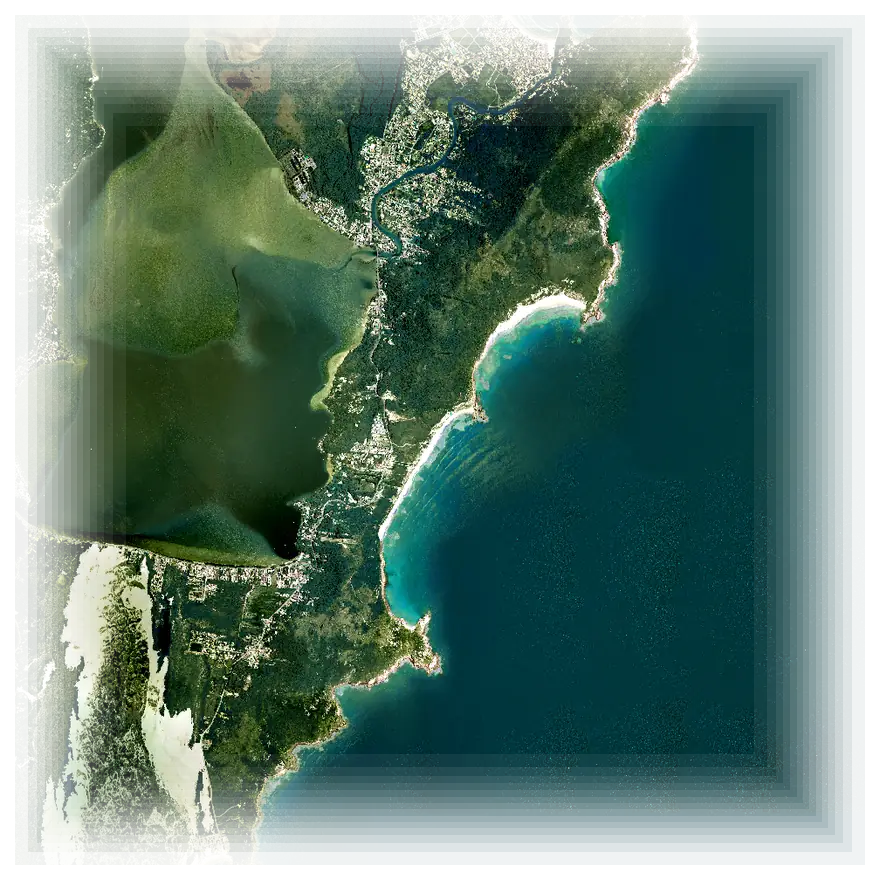
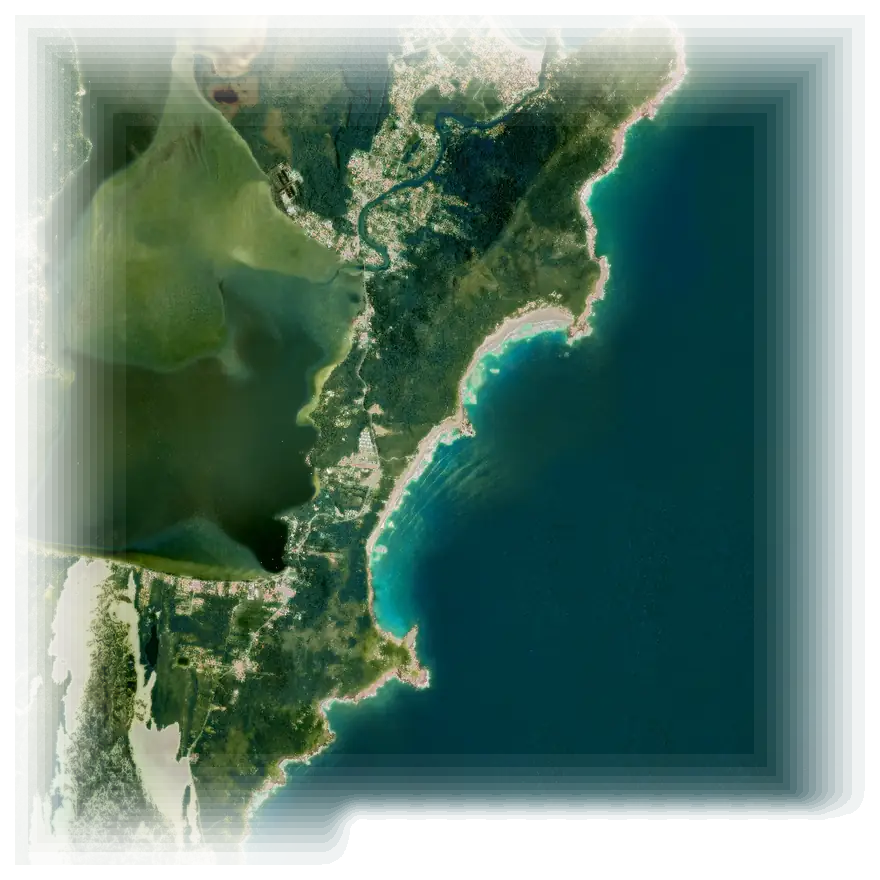
fix(landing): foto da Mole no tamanho e giro reais, abertura nítida na beira da praia
A foto do topo estava com 70% do tamanho real e girada 22° pro lado errado em cima da aerofoto,
por isso parecia uma "janela" colada quando se rolava devagar. Encaixe medido de novo comparando
vegetação e areia da foto com a aerofoto do Estado (largura 3,1 un, giro +11°, centro ~140 m a
nordeste); as camadas da aerofoto e do satélite foram refeitas em volta do centro novo.

- Abertura: foto em 2400 px (antes 2000), menos ampliada e centrada na areia com gente e nas
  ondas, não no meio da foto (que era só mar)
- Na subida a foto passa pra uma cópia com as cores da aerofoto (photo-tone): quando a borda
  aparece, cor e desenho continuam dos dois lados
- Aerofoto: áreas sem voo em 2012 (branco puro no mar) somem em vez de virar linha clara; areia
  segurada no bege em vez de estourar no branco
- Peso total das imagens do topo: +66 KB

diff --git a/src/components/landing/Hero.tsx b/src/components/landing/Hero.tsx
@@ -1,6 +1,7 @@
 import { useEffect, useLayoutEffect, useRef, useState, type ReactNode } from 'react'
 import { ChevronDown } from 'lucide-react'
 import photoMole from '@/assets/landing/flyover/photo-mole.webp'
+import photoTone from '@/assets/landing/flyover/photo-tone.webp'
 import orthoXfine from '@/assets/landing/flyover/ortho-xfine.webp'
 import orthoFine from '@/assets/landing/flyover/ortho-fine.webp'
 import orthoMid from '@/assets/landing/flyover/ortho-mid.webp'
@@ -26,10 +27,12 @@ import { IslandBeachList, IslandSummary } from '@/components/landing/IslandBeach
 // vídeo sem redesenhar.
 //
 // Camadas (unidades do desenho da ilha, islandShape.ts, ~91 m cada; geradas por
-// .content-drafts/flyover/build.py, fora do git):
-// - foto: Tiago Muraro (Unsplash License), Praia Mole, encaixada na aerofoto (giro de 11°)
+// .content-drafts/flyover/build2.py, fora do git):
+// - foto: Tiago Muraro (Unsplash License), Praia Mole, no tamanho e giro reais medidos contra a
+//   aerofoto (register3.py: dunas, areia e mar continuam de um lado pro outro da emenda)
 // - aerofoto: Governo de SC, SIGSC OrtoRGB 2012 (WMS público, sem taxa/restrição), cor convertida
-//   pra do satélite; 4 níveis (0,4 km na resolução máxima de 0,39 m, 0,7 / 2,2 / 6,5 km)
+//   pra do satélite com a areia segurada no bege; 4 níveis (0,55 / 0,7 / 2,2 / 6,5 km); pra emenda
+//   não aparecer, a foto ganha uma cópia com essas cores (photo-tone, ver toneMix)
 // - satélite: Copernicus Sentinel-2 (ESA), 21/ago/2026; detalhe perto da Mole + base da ilha
 
 const NAV = 60 // menu fixo da landing, por cima do palco
@@ -45,16 +48,22 @@ const BASE: Record<'tall' | 'wide', Layer> = {
 // De baixo pra cima, cada vez mais perto da Mole. Somem quando ficam pequenas na tela (a aerofoto
 // é de 2012 e não pode aparecer como remendo no mapa final, que é só satélite)
 const DETAILS: Layer[] = [
-  { src: s2Detail, x: 92.55, y: 149.05, w: 140, h: 270, px: 700, feather: 0.14, fadeSmall: true },
-  { src: orthoCoarse, x: 126.55, y: 233.05, w: 72, h: 72, px: 880, feather: 0.16, fadeSmall: true },
-  { src: orthoMid, x: 150.55, y: 257.05, w: 24, h: 24, px: 960, feather: 0.16, fadeSmall: true },
-  { src: orthoFine, x: 158.55, y: 265.05, w: 8, h: 8, px: 900, feather: 0.16, fadeSmall: true },
-  { src: orthoXfine, x: 160.25, y: 266.75, w: 4.6, h: 4.6, px: 1076, feather: 0.2, fadeSmall: true },
+  { src: s2Detail, x: 93.6, y: 147.91, w: 140, h: 270, px: 700, feather: 0.14, fadeSmall: true },
+  { src: orthoCoarse, x: 127.6, y: 231.91, w: 72, h: 72, px: 880, feather: 0.16, fadeSmall: true },
+  { src: orthoMid, x: 151.6, y: 255.91, w: 24, h: 24, px: 960, feather: 0.16, fadeSmall: true },
+  { src: orthoFine, x: 159.6, y: 263.91, w: 8, h: 8, px: 900, feather: 0.16, fadeSmall: true },
+  { src: orthoXfine, x: 160.6, y: 264.91, w: 6, h: 6, px: 1200, feather: 0.2, fadeSmall: true },
 ]
-// A foto (2000x1333), que é também o ponto em volta do qual a câmera sobe. De verdade ela cobre
-// ~1,3 unidade; aqui fica um pouco maior (2,2) pra diminuir o salto de nitidez pra aerofoto
-const PHOTO = { src: photoMole, cx: 162.55, cy: 269.05, w: 2.2, h: 2.2 / 1.5, rot: -11, feather: 0.17 }
-const PHOTO_LAYER: Layer = { src: photoMole, x: PHOTO.cx - PHOTO.w / 2, y: PHOTO.cy - PHOTO.h / 2, w: PHOTO.w, h: PHOTO.h, px: 2000, feather: PHOTO.feather }
+// A foto (2400x1600), que é também o ponto em volta do qual a câmera sobe. Tamanho, giro e
+// centro são os reais (cobre ~280 m de praia); feather = borda esfumada embutida na imagem
+const PHOTO = { src: photoMole, cx: 163.6, cy: 267.91, w: 3.1, h: 3.1 / 1.5, rot: 11, feather: 0.08 }
+const PHOTO_LAYER: Layer = { src: photoMole, x: PHOTO.cx - PHOTO.w / 2, y: PHOTO.cy - PHOTO.h / 2, w: PHOTO.w, h: PHOTO.h, px: 2400, feather: PHOTO.feather }
+// Abertura centrada na beira (areia com gente + ondas), não no meio da foto, que é só mar. Em
+// fração da largura da foto, pra esquerda; em tela larga não sobra espaço e fica no centro
+const START_DU = -0.16 * PHOTO.w
+// Nos primeiros passos da subida a foto troca pra uma cópia com as cores da aerofoto (mais clara,
+// como o ar visto de mais alto): quando a borda aparece, as cores dos dois lados já são iguais
+const toneMix = (L: Layout, s: number) => smooth(seg(L.s0 / s, 1.02, 1.6))
 
 const clamp01 = (v: number) => Math.min(1, Math.max(0, v))
 const seg = (p: number, a: number, b: number) => clamp01((p - a) / (b - a))
@@ -63,7 +72,7 @@ const smooth = (t: number) => t * t * (3 - 2 * t)
 // aerofoto em volta) e pousa devagar no mapa
 const cameraEase = (t: number) => 0.65 * Math.sin((Math.PI * t) / 2) + 0.35 * (-(Math.cos(Math.PI * t) - 1) / 2)
 
-type Layout = { W: number; H: number; k: number; ox: number; oy: number; wide: boolean; s0: number }
+type Layout = { W: number; H: number; k: number; ox: number; oy: number; wide: boolean; s0: number; du: number }
 
 // Câmera no progresso p: escala s (1 = mapa final), giro e onde o centro da foto cai na tela
 function camera(L: Layout, p: number) {
@@ -73,13 +82,16 @@ function camera(L: Layout, p: number) {
   const x = L.W / 2 + (L.ox + PHOTO.cx * L.k - L.W / 2) * w
   const y = L.H / 2 + (L.oy + PHOTO.cy * L.k - L.H / 2) * w
   const theta = -PHOTO.rot * (1 - smooth(seg(z, 0.12, 0.65))) // começa com a foto reta, termina com o norte pra cima
-  return { s, x, y, theta }
+  // desloca o começo pra beira da praia e volta pro centro da foto nos primeiros passos da subida
+  const off = L.du * (1 - smooth(seg(z, 0, 0.3))) * L.k * s
+  const a = ((theta + PHOTO.rot) * Math.PI) / 180
+  return { s, x: x - off * Math.cos(a), y: y - off * Math.sin(a), theta, off: Math.abs(off) }
 }
 
 // Base de cada <img>: a caixa no CSS já tem ~ o tamanho da imagem, e a animação só escala
 const baseScale = (l: Layer, k: number) => Math.max(1, l.px / (2 * l.w * k))
 
-function layerFrames(L: Layout, layers: { l: Layer; photo?: boolean }[], samples = 64) {
+function layerFrames(L: Layout, layers: { l: Layer; photo?: boolean; tone?: boolean }[], samples = 64) {
   const frames = layers.map(() => [] as Keyframe[])
   const view = Math.max(L.W, L.H)
   for (let i = 0; i <= samples; i++) {
@@ -88,13 +100,18 @@ function layerFrames(L: Layout, layers: { l: Layer; photo?: boolean }[], samples
     // de cima pra baixo: uma camada opaca que já cobre a tela inteira esconde as de baixo
     let covered = false
     for (let j = layers.length - 1; j >= 0; j--) {
-      const { l, photo } = layers[j]
+      const { l, photo, tone } = layers[j]
       const f = l.feather * Math.min(l.w, l.h)
       let op = 1
-      if (photo) op = smooth(seg(l.w * L.k * c.s, 0.35 * L.W, 1.1 * L.W))
+      if (photo) {
+        op = smooth(seg(l.w * L.k * c.s, 0.35 * L.W, 1.1 * L.W))
+        // a cópia de cor entra por cima; a foto original só sai quando ela já cobre quase tudo
+        const m = toneMix(L, c.s)
+        op *= tone ? m : 1 - smooth(seg(m, 0.85, 1))
+      }
       else if (l.fadeSmall) op = smooth(seg(l.w * L.k * c.s, 90, 190))
       if (covered) op = 0
-      if (op >= 1 && Math.min(l.w - 2 * f, l.h - 2 * f) * L.k * c.s >= view * (photo ? 1.02 : 1.3)) covered = true
+      if (op >= 1 && Math.min(l.w - 2 * f, l.h - 2 * f) * L.k * c.s >= view * (photo ? 1.02 : 1.3) + 2 * c.off) covered = true
       const b = photo ? L.s0 : baseScale(l, L.k)
       const inner = photo
         ? `rotate(${PHOTO.rot}deg) translate(${(-l.w * L.k * b) / 2}px, ${(-l.h * L.k * b) / 2}px)`
@@ -156,6 +173,7 @@ function IslandStage({ hero }: { hero?: ReactNode }) {
   const baseRef = useRef<HTMLImageElement>(null)
   const detailRefs = useRef<(HTMLImageElement | null)[]>([])
   const photoRef = useRef<HTMLImageElement>(null)
+  const photoToneRef = useRef<HTMLImageElement>(null)
   const scrimRef = useRef<HTMLDivElement>(null)
   const vignetteRef = useRef<HTMLDivElement>(null)
   const heroRef = useRef<HTMLDivElement>(null)
@@ -180,7 +198,10 @@ function IslandStage({ hero }: { hero?: ReactNode }) {
       const k = slot.clientWidth / BOX.w
       const f = PHOTO.feather * Math.min(PHOTO.w, PHOTO.h)
       const s0 = Math.max(W / ((PHOTO.w - 2 * f) * k), H / ((PHOTO.h - 2 * f) * k)) * 1.04
-      const next: Layout = { W, H, k, ox: x - BOX.x * k, oy: y - BOX.y * k, wide: W / H >= 1, s0 }
+      // quanto o começo pode ir pro lado sem mostrar a borda da foto
+      const slack = Math.max(0, ((PHOTO.w - 2 * f) * k * s0 - W) / 2 / (k * s0) - 0.02 * PHOTO.w)
+      const du = Math.max(-slack, Math.min(slack, START_DU))
+      const next: Layout = { W, H, k, ox: x - BOX.x * k, oy: y - BOX.y * k, wide: W / H >= 1, s0, du }
       setLayout(prev => (prev && (Object.keys(next) as (keyof Layout)[]).every(key =>
         typeof next[key] === 'number' ? Math.abs((prev[key] as number) - (next[key] as number)) < 0.5 : prev[key] === next[key]) ? prev : next))
     }
@@ -200,10 +221,10 @@ function IslandStage({ hero }: { hero?: ReactNode }) {
     if (railRef.current) railRef.current.style.height = `${pin + window.innerHeight}px`
 
     const list: [Element | null, Keyframe[]][] = []
-    const world: { el: HTMLImageElement | null; l: Layer; photo?: boolean }[] = [
+    const world: { el: HTMLImageElement | null; l: Layer; photo?: boolean; tone?: boolean }[] = [
       { el: baseRef.current, l: L.wide ? BASE.wide : BASE.tall },
       ...(animated ? DETAILS.map((l, i) => ({ el: detailRefs.current[i], l })) : []),
-      ...(animated ? [{ el: photoRef.current, l: PHOTO_LAYER, photo: true }] : []),
+      ...(animated ? [{ el: photoRef.current, l: PHOTO_LAYER, photo: true }, { el: photoToneRef.current, l: PHOTO_LAYER, photo: true, tone: true }] : []),
     ]
     layerFrames(L, world).forEach((frames, i) => list.push([world[i].el, frames]))
     if (animated) {
@@ -306,9 +327,14 @@ function IslandStage({ hero }: { hero?: ReactNode }) {
               style={{ width: l.w * k * baseScale(l, k), height: l.h * k * baseScale(l, k), opacity: 0 }} />
           ))}
           {animated && (
-            <img ref={photoRef} src={PHOTO.src} alt="" fetchPriority="high"
-              className="absolute left-0 top-0 max-w-none origin-top-left"
-              style={{ width: PHOTO.w * k * layout.s0, height: PHOTO.h * k * layout.s0 }} />
+            <>
+              <img ref={photoRef} src={PHOTO.src} alt="" fetchPriority="high"
+                className="absolute left-0 top-0 max-w-none origin-top-left"
+                style={{ width: PHOTO.w * k * layout.s0, height: PHOTO.h * k * layout.s0 }} />
+              <img ref={photoToneRef} src={photoTone} alt="" decoding="async" fetchPriority="low"
+                className="absolute left-0 top-0 max-w-none origin-top-left"
+                style={{ width: PHOTO.w * k * layout.s0, height: PHOTO.h * k * layout.s0, opacity: 0 }} />
+            </>
           )}
         </div>
       )}
